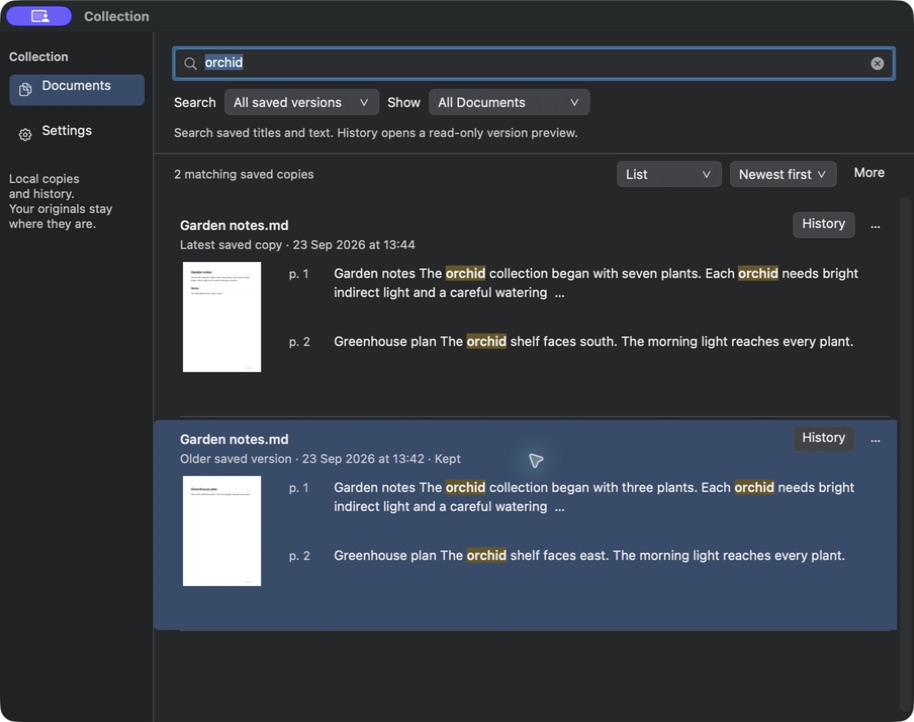
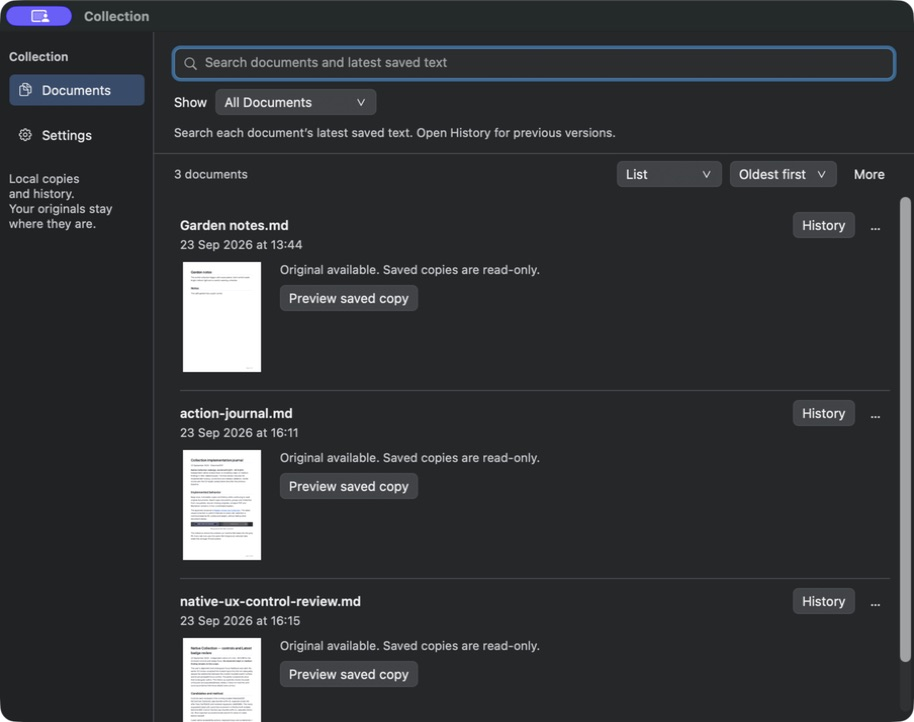
Document latest-only Collection browsing and History-only badges

diff --git a/portable/docs/journals/collection-implementation/action-journal.md b/portable/docs/journals/collection-implementation/action-journal.md
@@ -9,6 +9,8 @@ paper-size: A4
 
 ## Implemented behavior
 
+**Current Collection rule:** Documents and search show each document once using its latest saved copy. Older versions and the Latest pill belong only in History. This supersedes the earlier all-version browser and badge placements documented below.
+
 Keep local, immutable copies and history while continuing to read original documents. Search open documents, groups and Collection from one palette; recover missing originals; compare PDF and Markdown revisions in two coordinated readers.
 
 The approved proposal is [Reader review and Collection](../../proposals/reader-review-and-collections.md). The latest visual correction is uniform title text on every tab: selection is communicated by fill, outline and weight, without fading other document names.
@@ -327,3 +329,22 @@ The critic then used the fresh isolated Latest Review app: list and thumbnail ba
 ![Latest remains attached to the current revision while an older one is selected](assets/control-review-latest-history-older-selected.jpg)
 
 ![Thumbnail badges identify current saved versions even with oldest-first sorting](assets/control-review-latest-grid-oldest-first.jpg)
+
+
+### Correcting Documents versus History
+
+The user clarified that Collection's document browser should never contain separate rows for historical versions. The previous implementation and critic acceptance had misunderstood that product boundary: a Versions filter and all-version search exposed history in Documents, then pills distinguished the resulting duplicates. That was not the requested behavior.
+
+Documents now lists one canonical latest saved copy per document, in both list and thumbnail layouts. Its search reads only those latest copies. The Versions filter and all-version search selector are removed, and saved legacy preferences migrate to All Documents/latest-only search. Kept filtering selects documents with any protected historical version but still displays their latest copy. History retains all previous versions and is the only place with a Latest pill. Document-level deletion continues to confirm deletion of whole histories; individual-version deletion remains in History.
+
+Native regression tests use two actual revisions of one document to prove migration, one-row browsing, old-only query exclusion, latest-text search, older-version Keep protection and badge absence outside History. All **24 native UI suites**, the native app build and the source-size ratchet passed after the correction.
+
+
+The critic verified the corrected behavior in a fresh isolated Documents Review app seeded with the old Versions/all-history preferences. It opened three latest-only document rows. Kept showed the current Garden notes copy even though its earlier revision supplied the protection. Searching Kept for the old-only “east” returned no result; “south” returned the latest revision on page 2. Thumbnail browsing also showed each document once without a pill.
+
+![Corrected Collection: one latest saved copy per document](assets/control-review-documents-latest-only.jpg)
+
+![A protected history still displays its current document copy](assets/control-review-documents-kept-latest.jpg)
+
+
+History was checked separately: both Garden revisions remain available, with the old kept copy showing three plants/east and the newer copy seven plants/south. Only the newer History row has the Latest pill, and selecting the older revision does not move it. Escape restores the latest-only Documents context. The corrected Collection view is left visible in the isolated app.

diff --git a/docs/features.md b/docs/features.md
@@ -96,7 +96,7 @@ does not re-trigger the macOS access prompt.
 - Read-only version previews and a history view; Save a Copy creates a separate editable document.
 - PDF and Markdown comparison with old/new panes, red removals, green additions, linked scrolling/zoom, and clickable change markers. Inserted and deleted pages have blank counterparts.
 - Missing-original recovery from protected copies. Locate Original offers manual selection or a cancellable exact-hash search, sorted by modification date from oldest to newest.
-- Manage Collection has Documents and Settings in the left sidebar. Search stays inside Documents, with page thumbnails and contextual highlighted matches for the exact saved version. History shows real read-only PDF/Markdown previews, Keep, comparison and copy export. A Latest pill identifies each document’s current saved version in results, thumbnails and History, independently of filtering or selection. Query, selected version/page, expanded matches and browsing positions persist.
+- Manage Collection has Documents and Settings in the left sidebar. Documents shows each document once using its latest saved copy; search stays inside Documents and searches only those copies, with page thumbnails and contextual highlighted matches. History shows real read-only PDF/Markdown previews, Keep, comparison and copy export. Earlier versions are confined to History, where a Latest pill identifies the current saved version independently of selection. Query, selected version/page, expanded matches and browsing positions persist.
 - Storage is unlimited by default. Set location and Open location expose the current folder. With a cap, cleanup ranks least-opened documents, prunes their oldest previous versions first, and only then removes final Collection copies. A kept version protects the entire history; originals are never deleted.
 - Markdown copies include bounded local dependencies; unavailable assets are reported. Encrypted PDF bytes remain encrypted and are not indexed as plaintext.
 

diff --git a/readme.md b/readme.md
@@ -33,11 +33,11 @@ ShenzhenPDF opens PDFs (and more) instantly, keeps documents in tidy tabs, and d
 
 ## Collection and history <sub>macOS</sub>
 
-<p align="center"><img src="docs/images/portable/macos-collection.jpg" alt="Collection showing integrated search with page thumbnails, highlighted context and direct History actions" width="880"></p>
+<p align="center"><img src="docs/images/portable/macos-collection.jpg" alt="Collection showing one latest saved copy per document and direct History actions" width="880"></p>
 
 - **Keep local copies and history** — choose at first use, then continue opening the originals. Protected versions stay read-only; copies and history can be turned off in Settings.
 - **Find and recover documents** — <kbd>Cmd+K</kbd> searches open names, groups, open text, and Collection. Use `col:` for Collection alone. A missing original can be recovered from its protected copy or located by an exact content match.
-- **Browse saved history** — Collection combines document search, page thumbnails and highlighted context. Open History to preview a saved PDF or Markdown version; a Latest pill identifies each document’s current saved version. Settings includes location and optional storage limits; storage is unlimited by default.
+- **Browse saved history** — Collection combines document search, page thumbnails and highlighted context. Each document appears once, using its latest saved copy. Open History to browse earlier PDF or Markdown versions; the Latest pill appears only there. Settings includes location and optional storage limits; storage is unlimited by default.
 - **Compare revisions** — PDF and Markdown versions open side by side, with removed content in red and added content in green. Change markers and paired navigation help inspect revisions.
 - **Return to the previous tab** — <kbd>Cmd+Backspace</kbd> toggles between the last two documents, reopening a closed tab with its reading position.
 

diff --git a/portable/docs/releases/26.9.23-1.md b/portable/docs/releases/26.9.23-1.md
@@ -15,4 +15,4 @@
 - **Copy the intended page.** Right-click Copy Page and Copy Page Image use the page under the pointer.
 - **Optional agent access.** The native CLI and MCP adapter inspect PDF and Markdown, export previews, report layout and open a page or highlighted passage. They run only when invoked; see [setup and commands](../agent-interface.md).
 
-- **Collection browser refinement (macOS).** Integrated search shows page thumbnails and highlighted context, with direct History previews for saved PDF and Markdown versions. Documents and Settings share a left sidebar. Storage defaults to unlimited; optional cleanup prunes old versions of least-opened documents before final copies, while Keep protects an entire history. Search, history and browsing positions persist. Collection controls align symbols with labels and preserve rounded outlines during search editing. A Latest pill identifies each document’s current saved version in lists, thumbnails and History.
+- **Collection browser refinement (macOS).** Integrated search shows page thumbnails and highlighted context, with direct History previews for saved PDF and Markdown versions. Documents and Settings share a left sidebar. Storage defaults to unlimited; optional cleanup prunes old versions of least-opened documents before final copies, while Keep protects an entire history. Search, history and browsing positions persist. Collection controls align symbols with labels and preserve rounded outlines during search editing. Documents and thumbnails always show one latest saved copy per document. Earlier versions and the Latest pill are confined to History.
